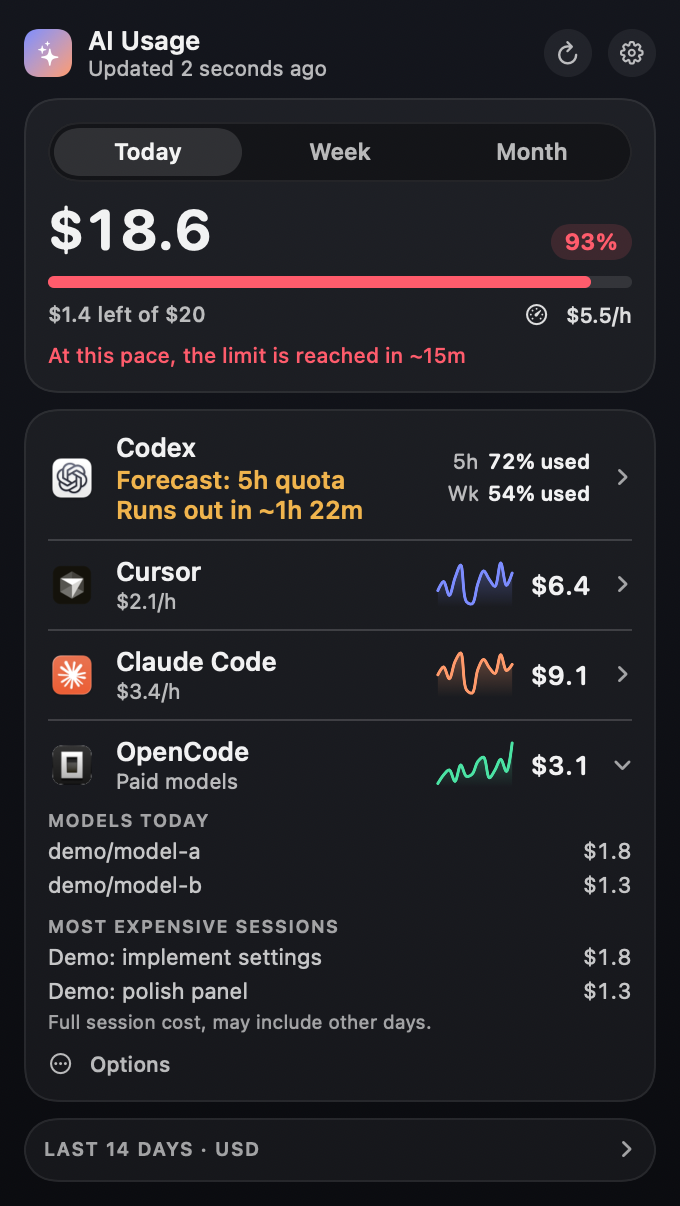
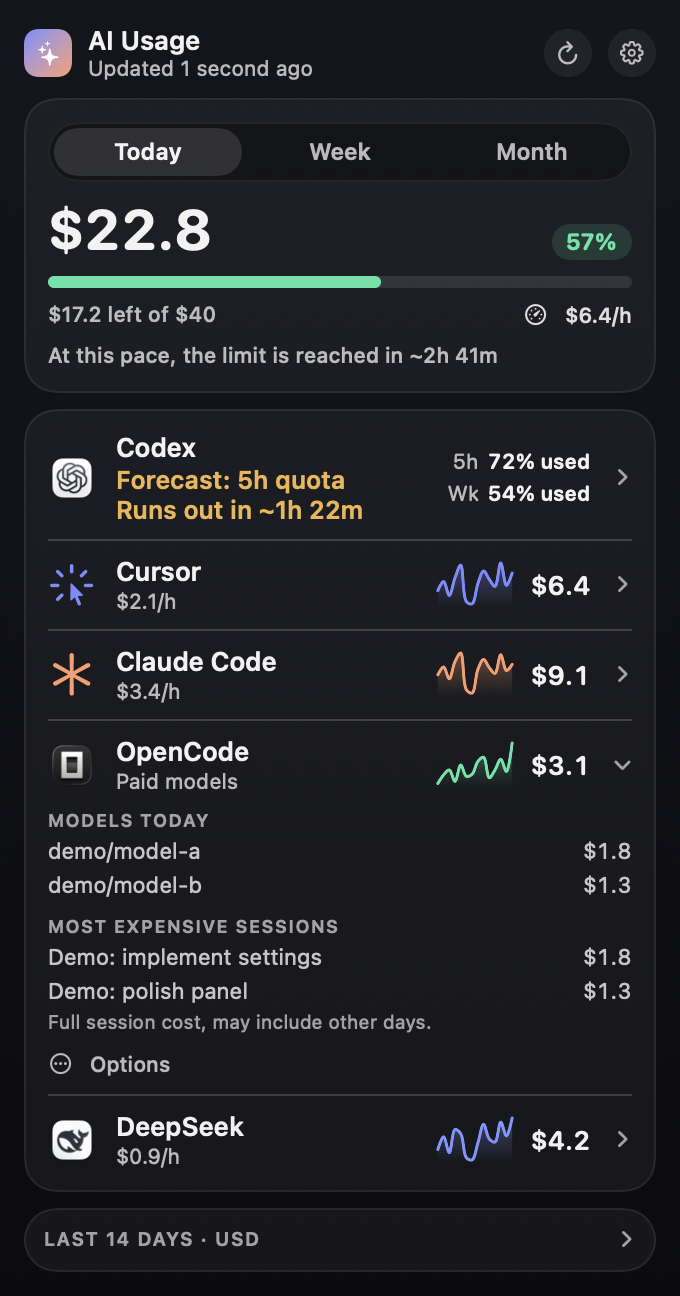
docs: showcase README, demo GIF, comparison, social preview and templates
Add a one-command Homebrew install, a demo GIF and refreshed demo
screenshots (now including DeepSeek), a comparison table, contributing
guide, issue templates and a reproducible social-preview renderer.

diff --git a/scripts/render_social_preview.py b/scripts/render_social_preview.py
@@ -1,0 +1,81 @@
+#!/usr/bin/env python3
+"""Compose docs/images/ai-usage-social.png (1280x640) for the GitHub social preview.
+
+Needs Pillow. Run with a Python that has it, for example the bundled runtime:
+  python3 scripts/render_social_preview.py
+"""
+
+from pathlib import Path
+
+from PIL import Image, ImageDraw, ImageFilter, ImageFont
+
+IMAGES = Path(__file__).resolve().parents[1] / "docs/images"
+W, H = 1280, 640
+TITLE = ImageFont.truetype("/System/Library/Fonts/SFNSRounded.ttf", 68)
+try:
+    TITLE.set_variation_by_name("Bold")
+except OSError:
+    pass
+BODY = ImageFont.truetype("/System/Library/Fonts/SFNS.ttf", 26)
+SMALL = ImageFont.truetype("/System/Library/Fonts/SFNS.ttf", 19)
+TINY = ImageFont.truetype("/System/Library/Fonts/SFNS.ttf", 16)
+
+BG_TOP, BG_BOTTOM = (20, 22, 30), (8, 9, 13)
+ACCENT = (124, 140, 255)
+MUTED = (160, 166, 184)
+WHITE = (240, 241, 247)
+
+
+def background() -> Image.Image:
+    image = Image.new("RGB", (W, H))
+    draw = ImageDraw.Draw(image)
+    for y in range(H):
+        t = y / H
+        draw.line([(0, y), (W, y)], fill=tuple(int(a + (b - a) * t) for a, b in zip(BG_TOP, BG_BOTTOM)))
+    glow = Image.new("RGB", (W, H), (0, 0, 0))
+    ImageDraw.Draw(glow).ellipse((W - 520, -320, W + 220, 420), fill=(70, 58, 160))
+    glow = glow.filter(ImageFilter.GaussianBlur(170))
+    return Image.blend(image, Image.composite(glow, image, glow.convert("L")), 0.32)
+
+
+def rounded(image: Image.Image, radius: int) -> Image.Image:
+    mask = Image.new("L", image.size, 0)
+    ImageDraw.Draw(mask).rounded_rectangle((0, 0, *image.size), radius, fill=255)
+    out = image.convert("RGBA")
+    out.putalpha(mask)
+    return out
+
+
+def main() -> None:
+    canvas = background().convert("RGBA")
+
+    icon = Image.open(IMAGES / "ai-usage-icon.png").convert("RGBA")
+    icon = icon.resize((104, 104), Image.Resampling.LANCZOS)
+    canvas.alpha_composite(rounded(icon, 24), (96, 92))
+
+    draw = ImageDraw.Draw(canvas)
+    draw.text((96, 226), "AI Usage", font=TITLE, fill=WHITE)
+    draw.text((98, 316), "Spend and quota for your AI coding tools", font=BODY, fill=MUTED)
+    draw.text((98, 360), "Cursor · Claude Code · OpenCode · Codex · DeepSeek", font=SMALL, fill=ACCENT)
+    draw.text((98, 520), "macOS 14+  ·  native  ·  no login  ·  no telemetry", font=TINY, fill=(120, 126, 146))
+
+    panel = Image.open(IMAGES / "ai-usage-panel.png").convert("RGBA")
+    height = 600
+    width = round(panel.width * height / panel.height)
+    panel = panel.resize((width, height), Image.Resampling.LANCZOS)
+    panel = rounded(panel, 26)
+
+    shadow = Image.new("RGBA", (width + 80, height + 80), (0, 0, 0, 0))
+    ImageDraw.Draw(shadow).rounded_rectangle((40, 40, 40 + width, 40 + height), 30, fill=(0, 0, 0, 150))
+    shadow = shadow.filter(ImageFilter.GaussianBlur(28))
+    x, y = W - width - 84, 20
+    canvas.alpha_composite(shadow, (x - 40, y - 40 + 10))
+    canvas.alpha_composite(panel, (x, y))
+
+    output = IMAGES / "ai-usage-social.png"
+    canvas.convert("RGB").save(output, optimize=True)
+    print(f"Rendered {output}")
+
+
+if __name__ == "__main__":
+    main()

diff --git a/scripts/render_demo_screenshots.py b/scripts/render_demo_screenshots.py
@@ -46,6 +46,13 @@ def demo_payload(now: datetime) -> dict:
         [0.25, 0.85, 1.20, 0.40, 1.55, 0.75, 0.90, 1.80, 2.10, 0.65, 1.20, 1.95, 1.10, 3.10],
         [("demo/model-a", 1.82), ("demo/model-b", 1.28)],
         [("Demo: implement settings", 1.82, "demo/model-a"), ("Demo: polish panel", 1.28, "demo/model-b")])
+    deepseek = cost_tool(
+        "deepseek", "DeepSeek", 4.20, 14.60, 41.30,
+        [1.2, 2.4, 0.9, 3.1, 2.7, 0.4, 0.2, 1.8, 3.6, 2.2, 1.9, 3.8, 2.5, 4.2],
+        [("deepseek-flash", 3.10), ("deepseek-v4-pro", 1.10)],
+        [("Demo: price the DeepSeek sessions", 2.40, "deepseek-flash"),
+         ("Demo: add budget alerts", 1.10, "deepseek-v4-pro")],
+        rate=0.9)
     codex = {
         "id": "codex", "name": "Codex", "error": None,
         "today": 0, "week": 0, "month": 0, "monthLabel": now.strftime("%b"),
@@ -61,11 +68,11 @@ def demo_payload(now: datetime) -> dict:
     }
     return {
         "updatedAt": now.isoformat(timespec="seconds"),
-        "budget": 20, "globalBudget": {"amount": 20, "period": "daily"},
+        "budget": 40, "globalBudget": {"amount": 40, "period": "daily"},
         "indicator": {"mode": "pinned", "toolIds": ["codex", "claude"]},
         "availableTools": [{"id": t["id"], "name": t["name"], "enabled": True}
-                           for t in (codex, cursor, claude, open_code)],
-        "tools": [codex, cursor, claude, open_code],
+                           for t in (codex, cursor, claude, open_code, deepseek)],
+        "tools": [codex, cursor, claude, open_code, deepseek],
     }
 
 
@@ -86,6 +93,8 @@ def main() -> None:
             ("--snapshot", "ai-usage-codex-quota.png", ["Today", "codex"]),
             ("--snapshot", "ai-usage-claude-costs.png", ["Today", "claude"]),
             ("--snapshot", "ai-usage-opencode-costs.png", ["Today", "opencode"]),
+            ("--snapshot", "ai-usage-deepseek-costs.png", ["Today", "deepseek"]),
+            ("--snapshot", "ai-usage-month.png", ["Month"]),
         ]
         for flag, filename, view_args in captures:
             subprocess.run(

diff --git a/README.md b/README.md
@@ -1,52 +1,99 @@
 # AI Usage
 
-A macOS menu bar app that shows what you spend on AI coding tools and how much subscription quota you have left. Cursor, Claude Code, OpenCode, Codex and DeepSeek. macOS 14+, English, Portuguese and Spanish.
+**Spend, budgets and subscription quota for your AI coding tools — in the macOS menu bar.** One native popover for Cursor, Claude Code, OpenCode, Codex and DeepSeek.
+
+[![CI](https://github.com/marcusviniciusf/ai-usage-bar/actions/workflows/ci.yml/badge.svg)](https://github.com/marcusviniciusf/ai-usage-bar/actions/workflows/ci.yml)
+[![Release](https://img.shields.io/github/v/release/marcusviniciusf/ai-usage-bar?color=0a0a0c)](https://github.com/marcusviniciusf/ai-usage-bar/releases/latest)
+[![macOS 14+](https://img.shields.io/badge/macOS-14%2B-0a0a0c)](https://github.com/marcusviniciusf/ai-usage-bar/releases/latest)
+[![License: MIT](https://img.shields.io/badge/license-MIT-6e5aff)](LICENSE)
 
 <p align="center">
-  <img src="docs/images/ai-usage-hero.png" width="760" alt="AI Usage in the macOS menu bar showing spend and quota for Codex, Cursor, Claude Code and OpenCode (fictional demo data)" />
+  <img src="docs/images/ai-usage-demo.gif" width="460" alt="AI Usage panel: today's spend, Codex quota, per-tool budgets, and an expanded DeepSeek breakdown (demo data)" />
 </p>
 
-<details>
-<summary>More screenshots (fictional demo data)</summary>
-
-<p align="center">
-  <img src="docs/images/ai-usage-codex-quota.png" width="300" alt="Codex quota windows with a limit forecast" />
-  <img src="docs/images/ai-usage-claude-costs.png" width="300" alt="Claude Code models and top sessions" />
-  <img src="docs/images/ai-usage-opencode-costs.png" width="300" alt="OpenCode models and top sessions" />
-</p>
-
-Regenerate with `python3 scripts/render_demo_screenshots.py && python3 scripts/render_hero.py` after rebuilding the app (the second needs Pillow).
-
-</details>
+[Screenshots](docs/images) use fictional demo data. No real account values are published.
 
 ## Install
 
 ```bash
-git clone https://github.com/marcusviniciusf/ai-usage-bar.git
-cd ai-usage-bar && ./install.sh
+brew install --cask marcusviniciusf/tap/ai-usage
 ```
 
-Needs Xcode Command Line Tools. [Bun](https://bun.sh) or npm is only needed for Claude Code and OpenCode (installs `ccusage`). The app lands in `~/Applications/AI Usage.app`; turn on **Launch at login** in its gear menu.
+Or download `AIUsage-<version>-macos-universal.zip` from [Releases](https://github.com/marcusviniciusf/ai-usage-bar/releases/latest) and move **AI Usage.app** to Applications. The build is ad-hoc signed (no paid Apple Developer ID), so macOS asks once: **System Settings → Privacy & Security → Open Anyway**, or right-click the app → Open.
+
+Universal (Apple Silicon + Intel), macOS 14+. No Node, no webview, no account, no telemetry. The collectors ship inside the app bundle.
+
+## Why this one
+
+- **One panel, two questions.** How much did I spend today, and how much quota do I have left? Costs, budgets and quota windows share the same compact popover instead of three dashboards.
+- **DeepSeek priced correctly.** Local DeepSeek Harness sessions are priced at DeepSeek's published API rates, including the peak/off-peak windows most trackers flatten into one number.
+- **Small and auditable.** A universal 2.8 MB binary, one SwiftUI source file, Python-standard-library collectors, 24 tests and a wire-compatibility check in CI. Nothing runs in the background besides a five-minute refresh.
 
 ## What it does
 
-- **Spend:** today, week and month per tool, with optional daily or monthly budgets and alerts at 80% and 100%.
-- **Quota:** Codex windows (5 hours, weekly) with a forecast of when you hit the limit.
-- **Menu bar:** a compact summary, or pin up to 2 tools.
-- Only tools it finds on your Mac appear. Turn any of them off in the gear menu.
+- **Spend:** today, week and month per tool, with model breakdown, most expensive sessions and a 14-day chart.
+- **Budgets:** optional daily or monthly USD budget per tool plus a global daily budget, with alerts at 80% and 100% and a pace forecast.
+- **Quota:** Codex 5-hour and weekly windows with a forecast of when you run out.
+- **Menu bar:** a combined summary, a fixed tool, or pin up to two tools, each with its own icon.
+- **Focus:** only the tools found on your Mac appear; turn any of them off in the gear menu.
+- **Languages:** English, Portuguese (Brasil) and Spanish.
+
+## DeepSeek
+
+`bin/ai-usage` reads the DeepSeek Harness session logs in `~/.dsh/sessions`, prices each `assistant/message` usage sample with the model that produced it, and bills a step once (retries replace, they do not add). A forked session's inherited prefix is skipped, so the same tokens are never counted twice.
+
+Rates follow DeepSeek's published USD prices for `deepseek-flash` and `deepseek-v4-pro`. Peak windows are weekdays 01:00–04:00 and 06:00–10:00 UTC and cost twice the off-peak rate; Chinese public holidays are always off-peak and are not modelled, so holiday samples overestimate. Values are API list-price estimates, not your account balance.
+
+## How it compares
+
+Based on each project's README on 2026-11-05.
+
+| | AI Usage | [CodexBar](https://github.com/steipete/CodexBar) | [TokenTracker](https://github.com/xiufengsun/TokenTracker) | [ccusage](https://github.com/ccusage/ccusage) |
+|---|---|---|---|---|
+| Interface | Native popover | Native menu bar | Desktop app + webview | Terminal CLI |
+| Tools | 5 | 111 providers | 47 tools | Multi-agent CLI |
+| DeepSeek spend | Local sessions, peak/off-peak | Balance via API key | Local sessions, flat price table | Via agent logs |
+| Per-tool USD budget + alerts | ✅ | Partial, where the API exposes it | ❌ | ❌ |
+| Runtime dependency | None (Swift) | None (Swift) | Node + webview | Node |
+| Install | `brew install --cask` | `brew install --cask` | `brew install --cask` | `npx` |
+
+**What this is not:** a 100-provider dashboard, a replacement for the `ccusage` CLI, or a hosted service. It is the small popover for people who use a handful of tools and want cost and quota without another account.
 
 ## Privacy
 
-Everything runs locally and nothing is sent anywhere except to the tools' own services:
+Everything runs locally. Nothing is sent anywhere except to the tools' own services:
 
-- Claude Code and OpenCode: read from local logs through `ccusage`. Values are API list-price estimates, not what a subscription bills.
-- DeepSeek: reads the DeepSeek Harness session logs in `~/.dsh/sessions` and prices their token usage at DeepSeek's published API rates (peak and off-peak). An estimate of what the API would bill, not a balance.
+- Claude Code and OpenCode: read from local logs through `ccusage`. API list-price estimates, not what a subscription bills.
+- DeepSeek: reads `~/.dsh/sessions`; nothing leaves the Mac.
 - Codex: the official local `codex app-server` quota call.
 - Cursor: uses your existing Cursor login. The app asks for the "Cursor Safe Storage" Keychain item (choose **Always Allow**, or macOS asks on every refresh) and calls the same undocumented `api2.cursor.sh` endpoint the Cursor usage page uses, so it can break if Cursor changes it. The decryption key is briefly passed to `/usr/bin/openssl` on the command line.
 
+## Screenshots
+
+<p align="center">
+  <img src="docs/images/ai-usage-codex-quota.png" width="300" alt="Codex quota windows with a limit forecast" />
+  <img src="docs/images/ai-usage-deepseek-costs.png" width="300" alt="DeepSeek models and most expensive sessions" />
+  <img src="docs/images/ai-usage-month.png" width="300" alt="Monthly view with budget pace" />
+</p>
+
+## Develop
+
+```bash
+git clone https://github.com/marcusviniciusf/ai-usage-bar.git
+cd ai-usage-bar
+./build.sh                              # build universal app + relaunch
+python3 -m unittest discover -s tests -v
+python3 tests/check_swift.py            # compiles old and current wire models
+./scripts/package_release.sh 1.0.0      # release zip + SHA-256 in dist/
+```
+
+Needs Xcode Command Line Tools. [Bun](https://bun.sh) or npm is only needed for Claude Code and OpenCode (installs `ccusage`).
+
 ## More
 
-[Reference](docs/REFERENCE.md): budgets, CLI flags, detection, languages, tests. Report security issues through the repository's private vulnerability reporting.
+- [Reference](docs/REFERENCE.md): detection, budgets, modes, CLI flags.
+- [Changelog](CHANGELOG.md) · [Contributing](CONTRIBUTING.md) · [Security](SECURITY.md).
+- Report security issues through the repository's private vulnerability reporting.
 
 ## License
 

diff --git a/AGENTS.md b/AGENTS.md
@@ -7,6 +7,9 @@ macOS 14+ menu bar app that shows AI tool spend and subscription quota. One Swif
 - `main.swift` — app, panel, menu bar indicator, preferences, notifications. Built by `build.sh` into `~/Applications/AI Usage.app`.
 - `bin/ai-usage` — collector the app runs as a separate process per tool; prints one JSON payload. Also the `ai-usage` CLI for preferences.
 - `bin/cursor-spend` — Cursor dashboard helper the collector loads.
+- `scripts/build_app.sh` — builds the universal app bundle with both collectors inside. `build.sh` installs it; `scripts/package_release.sh` produces the release zip and checksum.
+- `scripts/render_demo_screenshots.py` / `scripts/render_social_preview.py` — regenerate README and social media from fictional data (the second needs Pillow).
+- `.github/workflows/ci.yml` — collector tests, Swift wire check and universal build on `macos-14`.
 - `tests/` — collector unit tests (`test_collector.py`) and `check_swift.py`, which compiles the real app models against old and current payloads.
 - `docs/REFERENCE.md` — behaviour users care about (detection, budgets, modes, flags). `docs/STATUS.md` — current validated state.
 - `tasks/ai-usage/tasks.json` — local backlog (`tasks list`, `tasks new ai-usage`, `tasks done`).
@@ -15,15 +18,18 @@ macOS 14+ menu bar app that shows AI tool spend and subscription quota. One Swif
 
 ```bash
 python3 -m unittest discover -s tests -v
-python3 tests/check_swift.py          # needs rtk and the legacy commit 2bfe2d7
+python3 tests/check_swift.py          # compiles old and current wire models (rtk optional)
 ./build.sh                            # compile, install, relaunch the app
+./scripts/build_app.sh /tmp/out       # bundle only, no install (CI uses this)
+./scripts/package_release.sh 1.0.0    # dist/ zip + SHA-256 for a GitHub Release
 ./install.sh                          # collectors to ~/.local/bin, ccusage, then build
 ~/Applications/AI\ Usage.app/Contents/MacOS/AIUsage --snapshot /tmp/out.png Today
 ```
 
 ## Constraints
 
-- The app launches the collector with `/usr/bin/python3` (3.9) and `~/.local/bin/ai-usage`: keep the collector stdlib-only and 3.9-compatible.
+- The app launches the collector with `/usr/bin/python3` (3.9) and prefers the copy inside its own bundle; `~/.local/bin/ai-usage` is only a dev fallback.
+- Release flow: bump `CHANGELOG.md`, tag `vX.Y.Z`, run `scripts/package_release.sh X.Y.Z`, `gh release create`, then update `version`/`sha256` in the cask at `marcusviniciusf/homebrew-tap`. Ad-hoc signing is intentional; there is no Developer ID.
 - Reads must stay read-only towards provider accounts: never start a turn, change auth, reset credits, or spend money.
 - Costs from local logs are API list-price estimates, never invoices or account balances; label them that way in UI and docs.
 - Nothing leaves the Mac except calls to the providers' own endpoints (Cursor dashboard, `codex app-server`, DeepSeek logs stay local).

diff --git a/CONTRIBUTING.md b/CONTRIBUTING.md
@@ -1,0 +1,45 @@
+# Contributing
+
+Thanks for looking. This is a small project: one SwiftUI source file and two Python collectors. Keep changes scoped and the diff readable.
+
+## Setup
+
+```bash
+git clone https://github.com/marcusviniciusf/ai-usage-bar.git
+cd ai-usage-bar
+./build.sh
+```
+
+Requires macOS 14+ and Xcode Command Line Tools. Bun or npm is only needed for the Claude Code and OpenCode collectors (`ccusage`).
+
+## Before opening a PR
+
+```bash
+python3 -m unittest discover -s tests -v
+python3 tests/check_swift.py
+./scripts/build_app.sh /tmp/ai-usage-build
+```
+
+All three must pass. The app must still decode payloads produced by older collector versions; `check_swift.py` compiles the previous wire model for that.
+
+## Rules
+
+- The collector runs under `/usr/bin/python3` (3.9): standard library only, no new dependencies.
+- Reads must stay read-only towards provider accounts: never start a turn, change auth, reset credits or spend money.
+- Costs from local logs are estimates, never invoices. Say so in UI copy and docs.
+- Nothing leaves the Mac except calls to the providers' own endpoints.
+- Keep the JSON payload backward compatible: an old app binary must decode a new collector payload.
+- UI text goes through `tr()` with entries in the English, Portuguese and Spanish tables.
+- Screenshots use fictional demo data, rendered by `scripts/render_demo_screenshots.py`.
+
+## Adding a tool
+
+1. Add a collector function to `bin/ai-usage` that returns the shared cost payload (`today`, `week`, `month`, `daily`, `models`, `chats`, `rate`).
+2. Append it to `SOURCES` so budgets, alerts, pinning and CLI flags pick it up automatically.
+3. Add detection in `detected_sources()`.
+4. Add a palette, a fallback SF Symbol and, if the tool ships a macOS app, an icon name in `Tool`/`ToolAppIcon` in `main.swift`.
+5. Add tests with fixture logs, and document pricing assumptions in `docs/REFERENCE.md`.
+
+## Reporting bugs
+
+Use the issue templates and include your macOS version, the affected tool, and the collector error text. Never paste tokens, session contents or account balances.

diff --git a/.github/ISSUE_TEMPLATE/bug_report.md b/.github/ISSUE_TEMPLATE/bug_report.md
@@ -1,0 +1,23 @@
+---
+name: Bug report
+about: Something is wrong or a tool shows an error
+labels: bug
+---
+
+**What happened**
+
+**What you expected**
+
+**Tool and source**
+- Tool: Cursor / Claude Code / OpenCode / Codex / DeepSeek
+- macOS version:
+- App version (gear menu or Release tag):
+
+**Evidence**
+Collector error text, a screenshot of the panel with demo data replaced, or the output of:
+
+```bash
+python3 ~/Applications/AI\ Usage.app/Contents/Resources/ai-usage --collect-tool deepseek
+```
+
+Never paste tokens, prompts, session contents or account balances.

diff --git a/.github/ISSUE_TEMPLATE/feature_request.md b/.github/ISSUE_TEMPLATE/feature_request.md
@@ -1,0 +1,14 @@
+---
+name: Feature request
+about: Suggest a tool, a metric or a UI change
+labels: enhancement
+---
+
+**Problem**
+
+**Proposal**
+
+**Tool or data source**
+If this is a new tool, where do its usage logs or API live, and are they local?
+
+**Alternatives considered**
